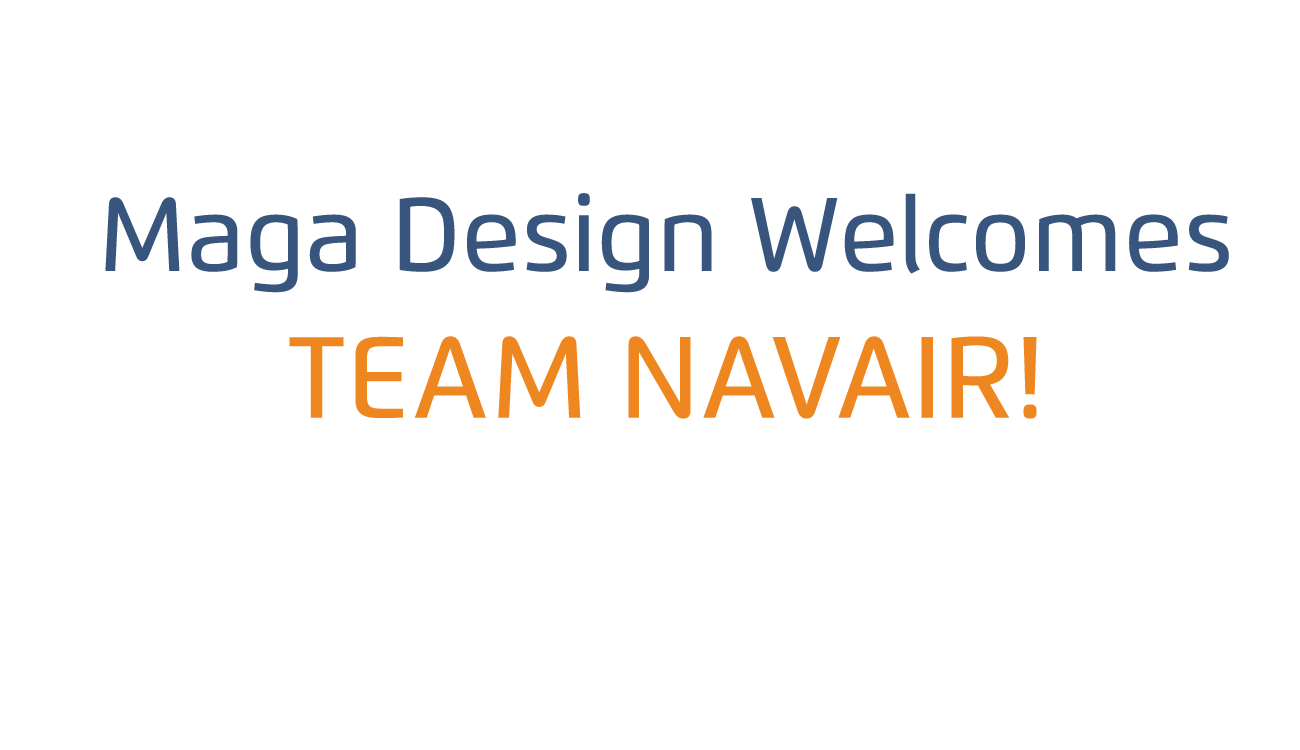
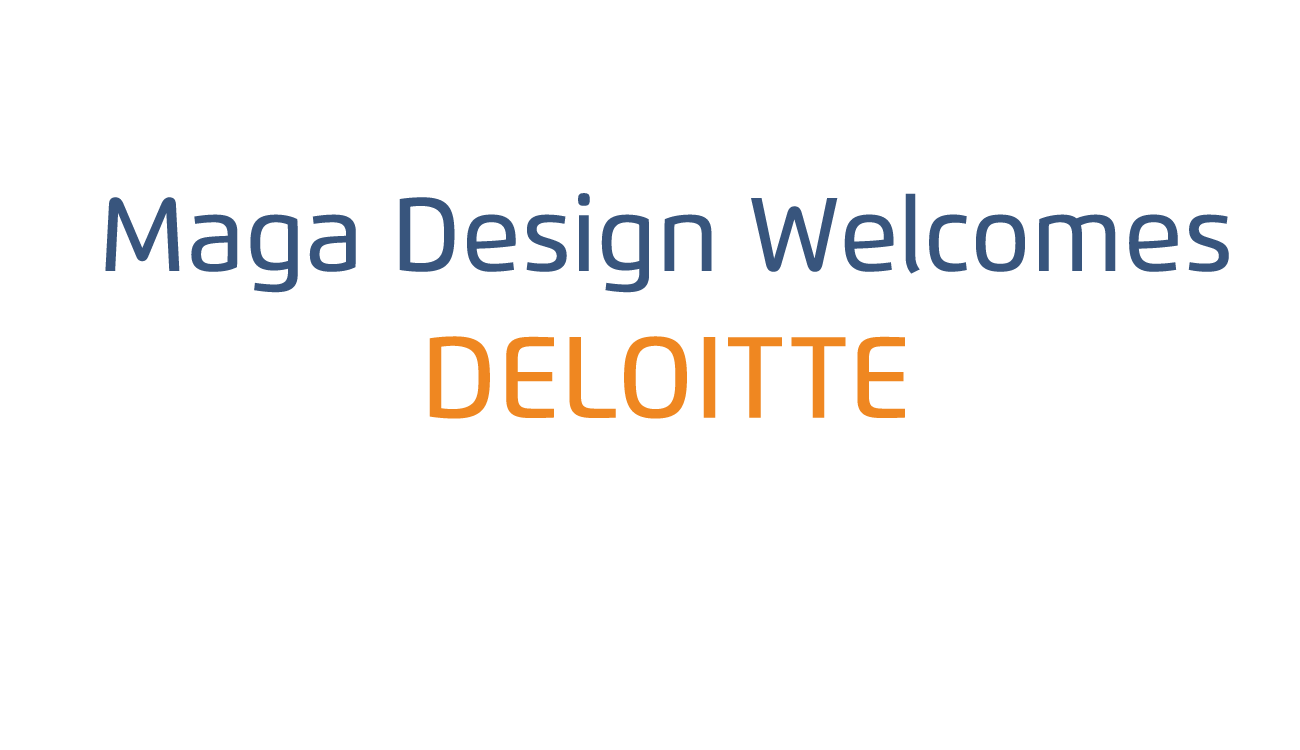
welcome screen
added welcome screen

Changed region(s): [[0.2154, 0.4293, 0.8, 0.5827]]

diff --git a/index.html b/index.html
@@ -148,7 +148,7 @@
 			<div id="slide2" class="slide"></div>
 			<div id="slide3" class="slide"></div>
 			<div id="slide4" class="slide"></div>
-			<!--<div id="slide5" class="slide"></div>--> <!--welcome screen--> 
+			<div id="slide5" class="slide"></div><!--welcome screen--> 
 		</div><!--wrapper ends-->
 
 		<div class="maga-logo"><div id="authorize-button">Log In</div><div id="authorize-button-logout"><a href="https://accounts.google.com/logout">Log Out</a></div>

diff --git a/style.css b/style.css
@@ -51,7 +51,7 @@ body {
 
 .wrapper {
 	height: 850px;
-	width: 5300px;  /*6500 with welcome screen && 5300 without welcome screen */
+	width: 6500px;  /*6500 with welcome screen && 5300 without welcome screen */
 }
 
 p {
